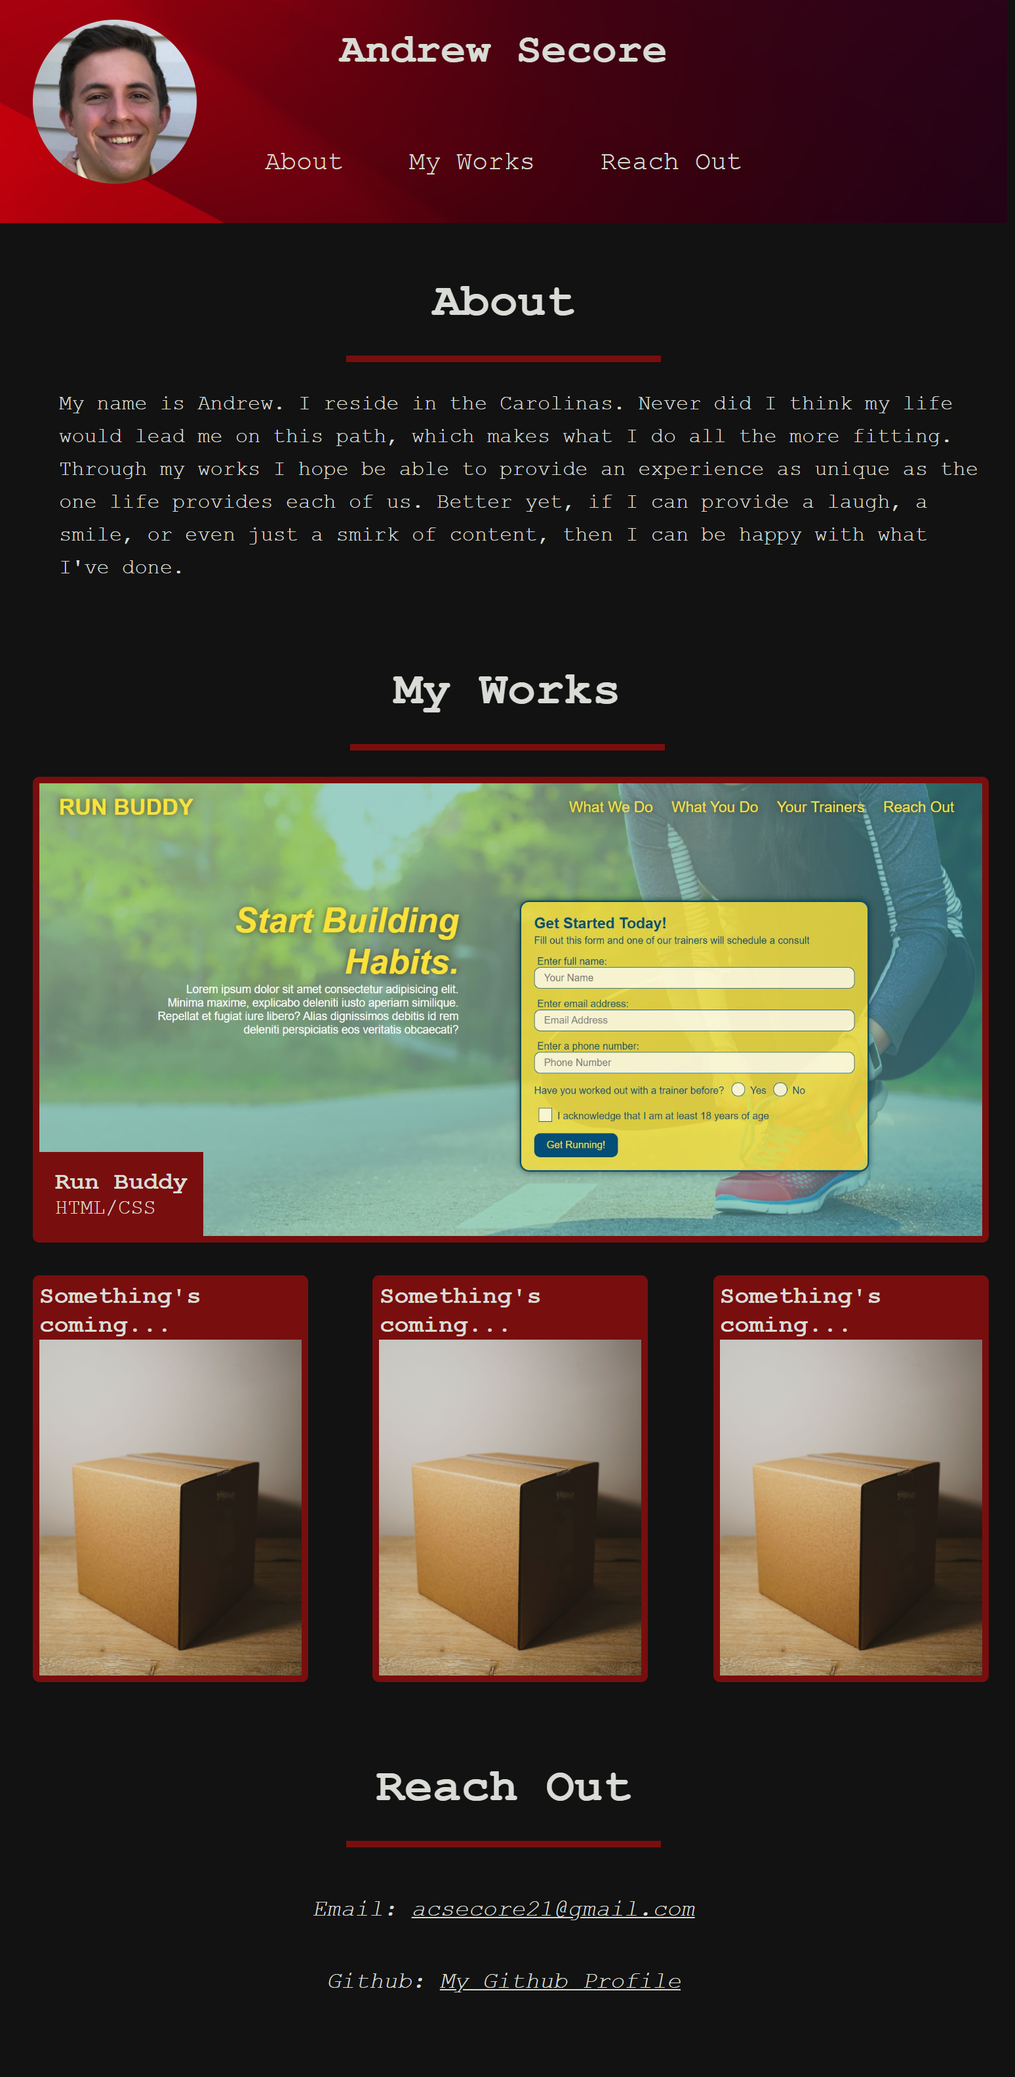
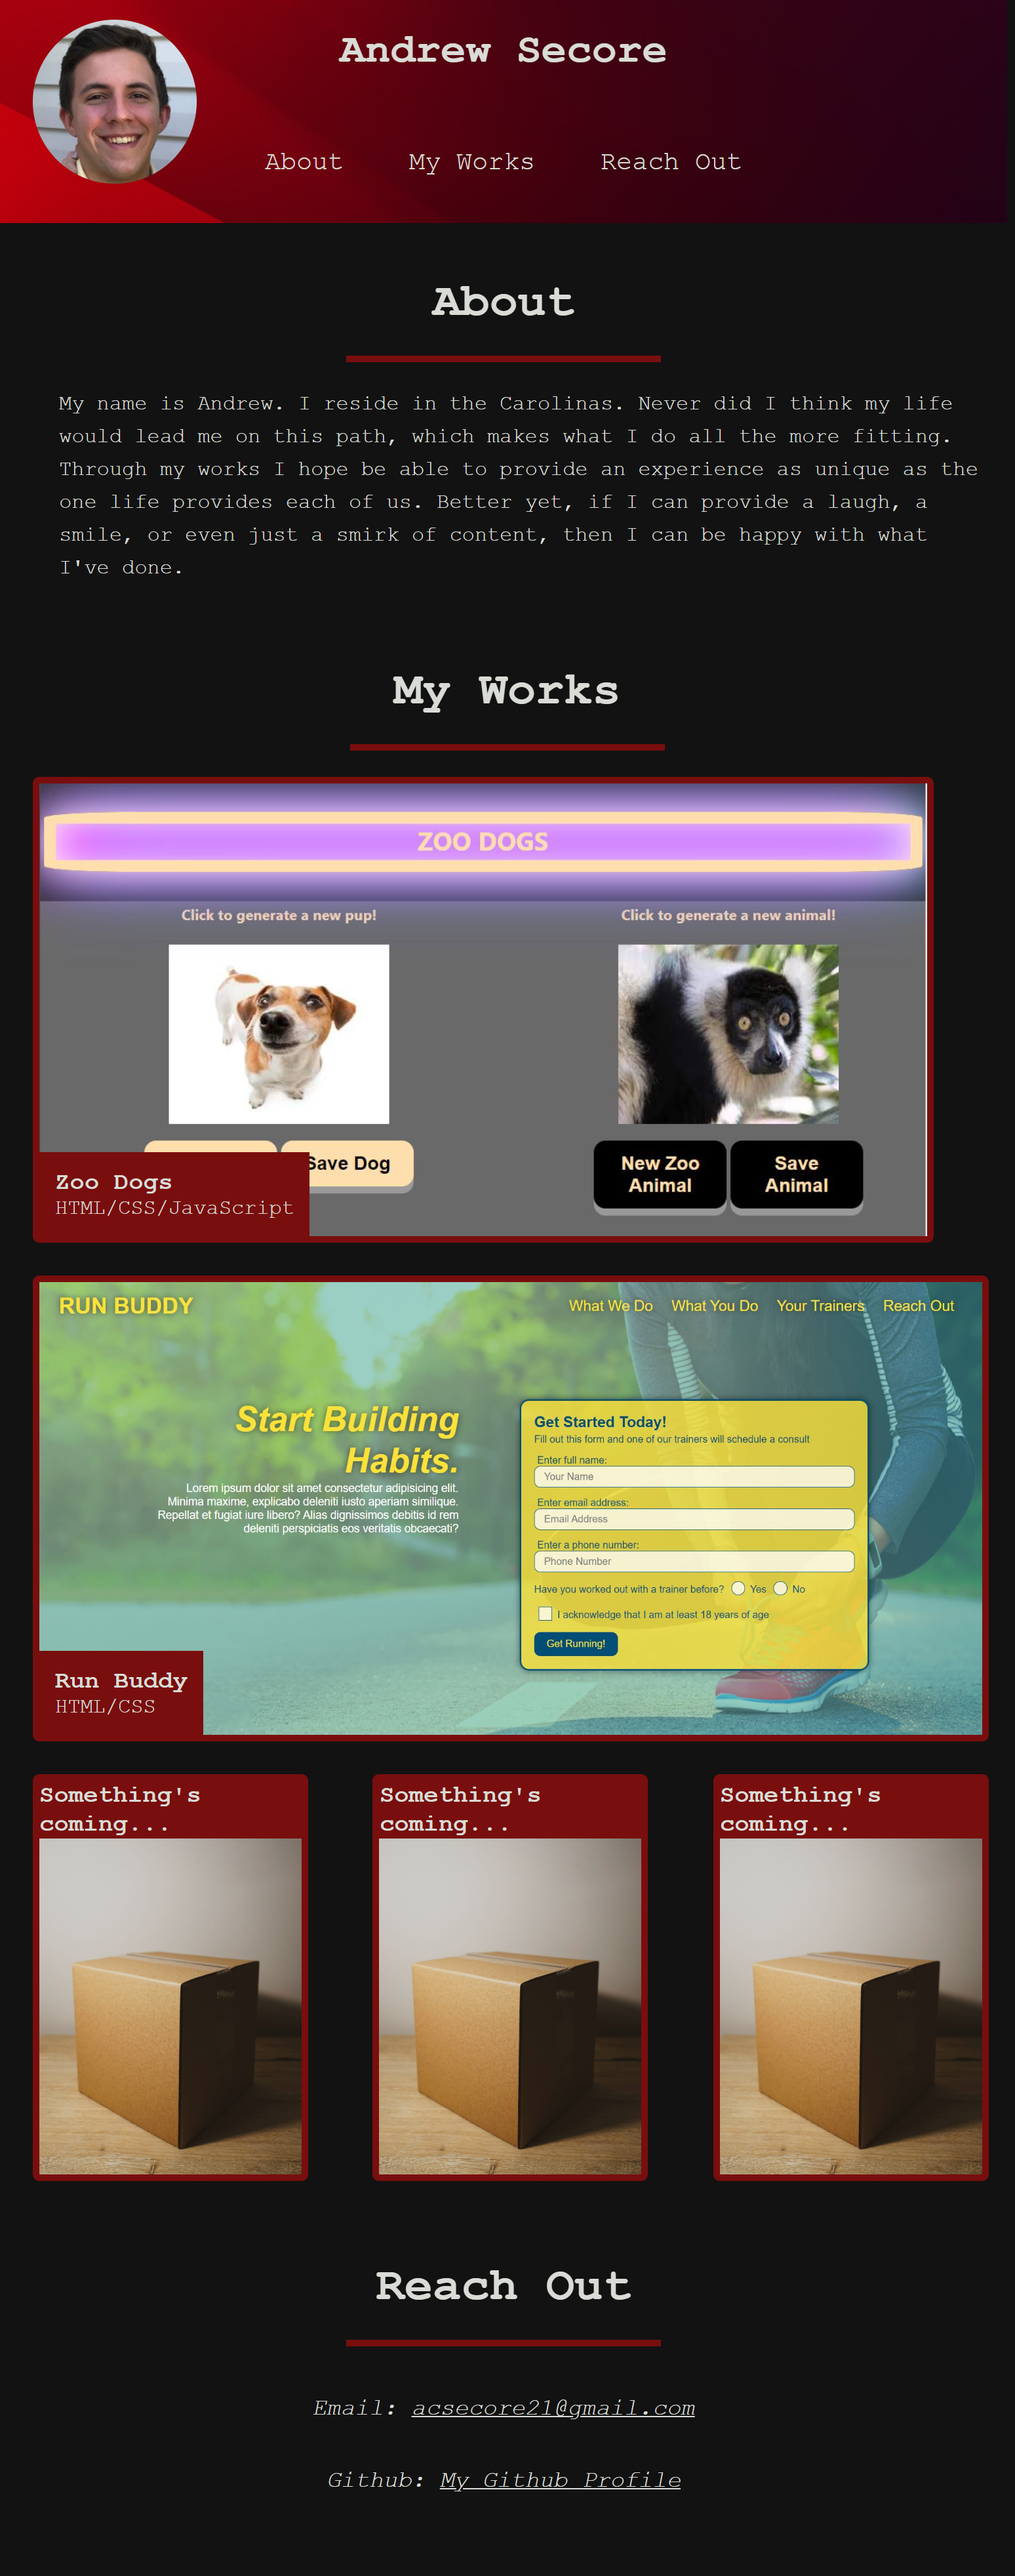
update README images

diff --git a/assets/style.css b/assets/style.css
@@ -185,7 +185,7 @@ header nav ul li a {
 }
 
 .finished-project img {
-    max-width: 1200px;
+    max-width: 100vw;
     max-height: 527px;
 }
 
